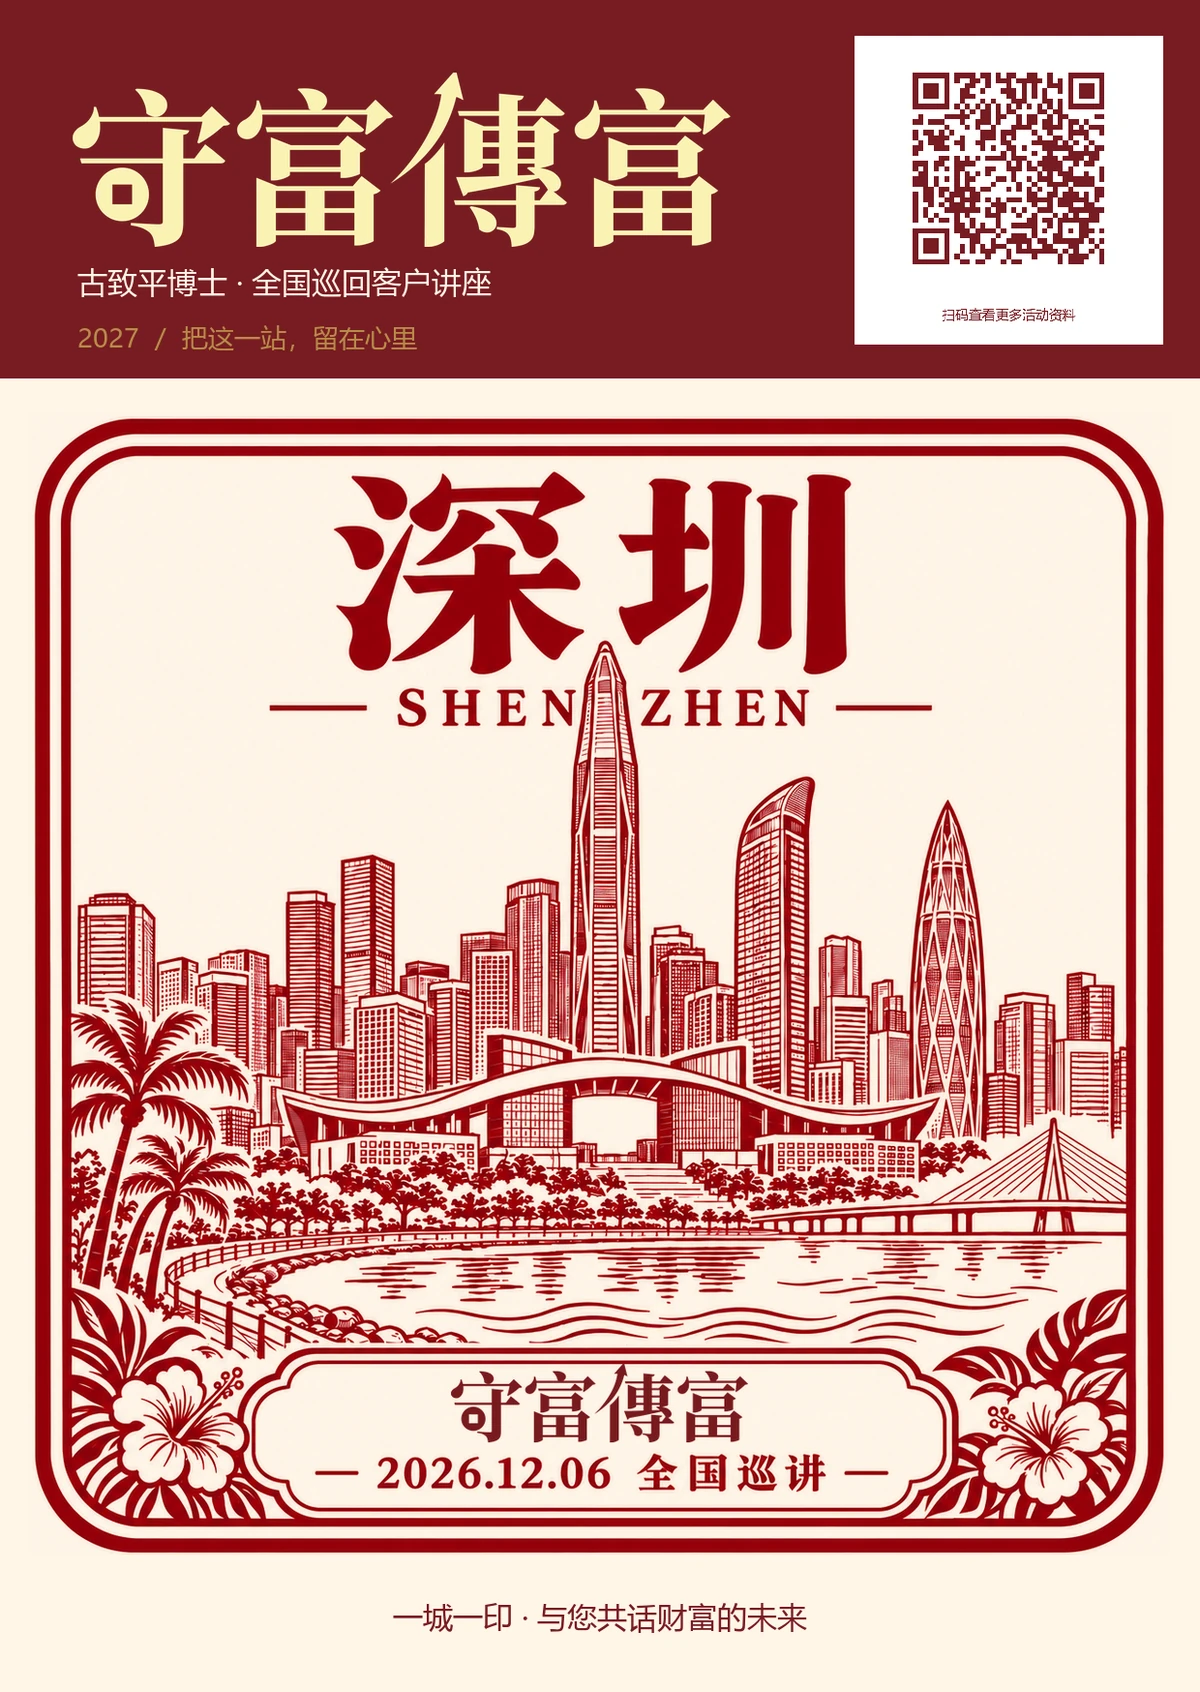
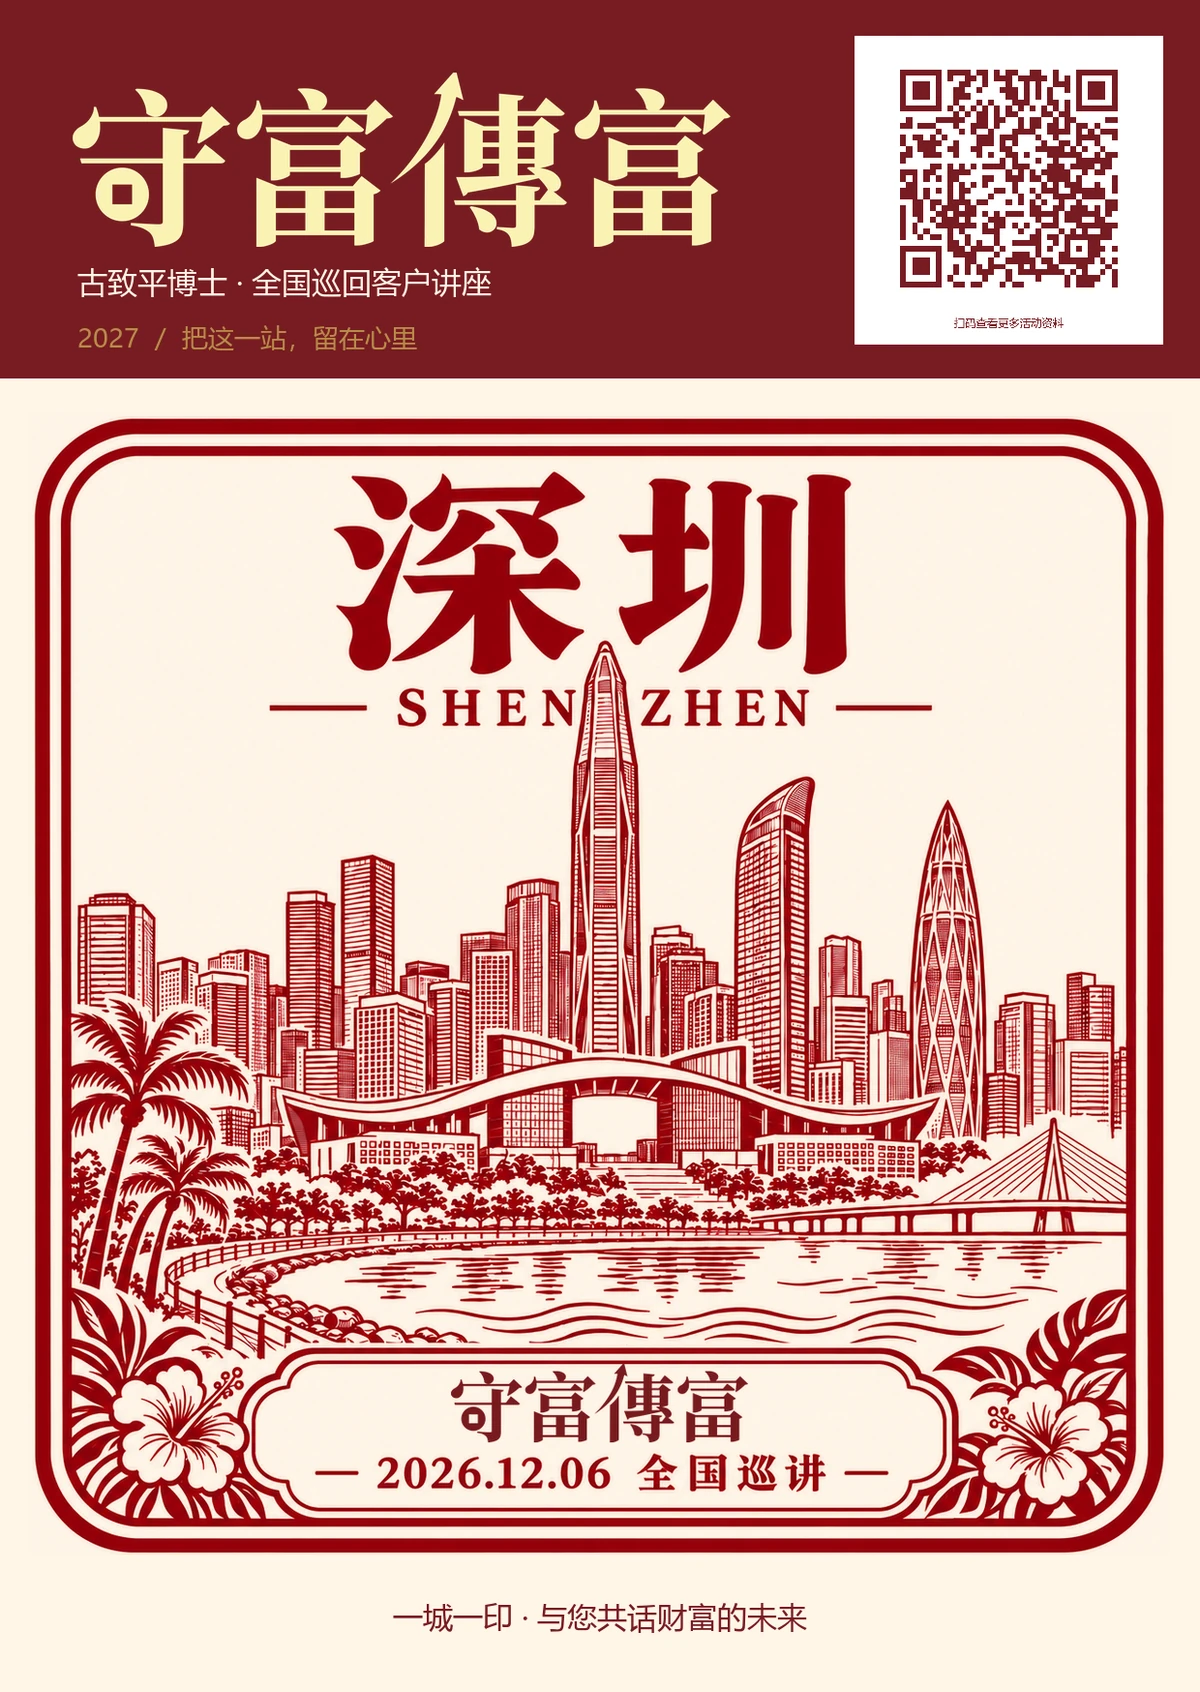
Refine poster typography, enlarge captioned QR, document stamp standards in Figma and CSS

Changed region(s): [[0.74, 0.0307, 0.9558, 0.2151]]

diff --git a/TEMP/shoufu-wenfang/index.html b/TEMP/shoufu-wenfang/index.html
@@ -1,1 +1,1 @@
-<!doctype html><html lang="zh-Hans"><head><meta charset="utf-8"><meta name="viewport" content="width=device-width,initial-scale=1"><title>守富文房｜卡片、纪念印与A3海报 DEMO</title><meta name="description" content="守富文房最新设计：双面纪念卡、城市线描印、古致平博士肖像印、邀请页二维码印与A3现场展示海报。"><style>*{box-sizing:border-box}body{margin:0;background:#f3ede4;color:#521b22;font-family:'Microsoft YaHei',sans-serif}header{background:#771c22;color:#fff5e7;padding:48px max(24px,calc((100vw - 1180px)/2))}header img{width:210px}h1{font-size:clamp(34px,6vw,62px);margin:22px 0 12px}header p{color:#e7c9ad;line-height:1.8;max-width:760px}nav{display:flex;gap:20px;flex-wrap:wrap}a{color:inherit}nav a{color:#eebf69}main{max-width:1180px;margin:auto;padding:24px}section{padding:20px 0 35px;border-bottom:1px solid #d6c5b0}h2{font-size:28px}.grid{display:grid;grid-template-columns:repeat(auto-fit,minmax(270px,1fr));gap:24px}figure{margin:0}figure img{width:100%;display:block;background:white;box-shadow:0 5px 18px #3a151514}figcaption{padding:14px 0;line-height:1.7}figcaption span{display:block;color:#806754;font-size:13px}.cards{display:grid;grid-template-columns:1fr 1fr;gap:24px}.poster{max-width:600px;margin:20px auto}.note{font-size:13px;line-height:1.9;color:#806754}.button{display:inline-block;background:#771c22;color:#fff5e7;text-decoration:none;padding:12px 22px;border-radius:6px;margin:12px 0}.poster img{width:100%}@media(max-width:600px){header{padding:30px 22px}main{padding:20px}.cards{grid-template-columns:1fr}.grid{grid-template-columns:1fr}}</style><link rel="canonical" href="https://brookstalent.github.io/DennisSo/TEMP/shoufu-wenfang/"><meta property="og:type" content="website"><meta property="og:title" content="守富文房｜卡片、纪念印与A3海报"><meta property="og:description" content="把这一站，盖进收藏。查看双面纪念卡、城市印、老师肖像印与A3现场海报。"><meta property="og:url" content="https://brookstalent.github.io/DennisSo/TEMP/shoufu-wenfang/"><meta property="og:locale" content="zh_CN"><meta property="og:image" content="https://brookstalent.github.io/DennisSo/TEMP/shoufu-wenfang/social.jpg"><meta property="og:image:type" content="image/jpeg"><meta property="og:image:width" content="800"><meta property="og:image:height" content="800"></head><body><header><img src="assets/official-logo-gold-transparent.webp?v=8" alt="守富传富"><h1>守富文房</h1><p>把这一站，盖进收藏。<br>双面纪念卡 × 城市线描印 × 三款老师肖像印 × 六印A3海报</p><nav><a href="#poster">A3海报</a><a href="#cards">双面卡片</a><a href="#cities">三、四月新城市</a><a href="#stamps">印章系列</a></nav></header><main><section id="poster"><h2>活动现场 · A3展示海报</h2><p>直式 297 × 420 mm，适合放入A3透明展示架。</p><a class="button" href="poster-preview.webp?v=8">查看 A3 海报设计</a><figure class="poster"><a href="poster-preview.webp?v=8"><img src="poster-preview.webp?v=8" alt="守富文房 A3 活动展示海报"></a></figure></section><section id="cards"><h2>双面卡片 · 蓋印效果</h2><div class="cards"><figure><img src="assets/demo-front.webp?v=8" alt="正面蓋印效果"><figcaption>正面 · 城市纪念印与QR印</figcaption></figure><figure><img src="assets/demo-back.webp?v=8" alt="背面蓋印效果"><figcaption>背面 · 5cm肖像印与下一场邀请</figcaption></figure></div><p class="note">卡片 105 × 148 mm。上图为蓋印示意；正面印刷稿右上留白，背面预印二维码，圆位留白供老师肖像印。</p><p><a href="assets/postcard-front.webp?v=8">下载正面未蓋印稿</a> · <a href="assets/postcard-back.webp?v=8">下载背面未蓋印稿</a></p></section><section id="cities"><h2>三、四月 · 四座新城市</h2><div class="grid"><figure><a href="assets/stamp-hangzhou.webp?v=8"><img src="assets/stamp-hangzhou.webp?v=8" loading="lazy" alt="杭州城市纪念印"></a><figcaption><b>杭州</b><span>2027.03.06 · 100 × 100 mm</span></figcaption></figure><figure><a href="assets/stamp-suzhou.webp?v=8"><img src="assets/stamp-suzhou.webp?v=8" loading="lazy" alt="苏州城市纪念印"></a><figcaption><b>苏州</b><span>2027.03.07 · 100 × 100 mm</span></figcaption></figure><figure><a href="assets/stamp-beijing.webp?v=8"><img src="assets/stamp-beijing.webp?v=8" loading="lazy" alt="北京城市纪念印"></a><figcaption><b>北京</b><span>2027.04.24 · 100 × 100 mm</span></figcaption></figure><figure><a href="assets/stamp-tianjin.webp?v=8"><img src="assets/stamp-tianjin.webp?v=8" loading="lazy" alt="天津城市纪念印"></a><figcaption><b>天津</b><span>2027.04.25 · 100 × 100 mm</span></figcaption></figure></div></section><section id="stamps"><h2>纪念印与QR原子印</h2><div class="grid"><figure><a href="assets/stamp-retirement.webp?v=8"><img src="assets/stamp-retirement.webp?v=8" loading="lazy" alt="把自己的养老安排好，是对孩子未来最大的祝福"><figcaption><b>把自己的养老安排好，是对孩子未来最大的祝福</b><span>新金句肖像印 · 直径 50 mm</span></figcaption></a></figure><figure><a href="assets/stamp-shenzhen.webp?v=8"><img src="assets/stamp-shenzhen.webp?v=8" loading="lazy" alt="深圳城市印"></a><figcaption><b>深圳城市印 · 2026.12.06</b><span>100 × 100 mm</span></figcaption></figure><figure><a href="assets/stamp-guangzhou.webp?v=8"><img src="assets/stamp-guangzhou.webp?v=8" loading="lazy" alt="广州城市印"></a><figcaption><b>广州城市印 · 2027.01.10</b><span>100 × 100 mm</span></figcaption></figure><figure><a href="assets/stamp-portrait.webp?v=8"><img src="assets/stamp-portrait.webp?v=8" loading="lazy" alt="守得住，传得下去"></a><figcaption><b>守得住，传得下去</b><span>肖像印 · 直径 50 mm</span></figcaption></figure><figure><a href="assets/stamp-professional.webp?v=8"><img src="assets/stamp-professional.webp?v=8" loading="lazy" alt="相信专业的力量"></a><figcaption><b>相信专业的力量</b><span>肖像印 · 直径 50 mm</span></figcaption></figure><figure><a href="assets/stamp-invitation-qr.webp?v=8"><img src="assets/stamp-invitation-qr.webp?v=8" loading="lazy" alt="邀请页 QR 原子印"></a><figcaption><b>邀请页 QR 原子印</b><span>连码与说明共 24 × 24 mm</span></figcaption></figure></div></section><p class="note">设计审阅 DEMO · 第八版 · 2026-11-14。A3海报展示四方印与两圆印；卡片与海报不再设置方形摆印外框。印章为正常阅读方向；制章时由厂家处理镜像与最小线宽。二维码已解码验证，原子印仍需实物试盖。</p></main></body></html>
+<!doctype html><html lang="zh-Hans"><head><meta charset="utf-8"><meta name="viewport" content="width=device-width,initial-scale=1"><title>守富文房｜卡片、纪念印与A3海报 DEMO</title><meta name="description" content="守富文房最新设计：双面纪念卡、城市线描印、古致平博士肖像印、邀请页二维码印与A3现场展示海报。"><style>*{box-sizing:border-box}body{margin:0;background:#f3ede4;color:#521b22;font-family:'Microsoft YaHei',sans-serif}header{background:#771c22;color:#fff5e7;padding:48px max(24px,calc((100vw - 1180px)/2))}header img{width:210px}h1{font-size:clamp(34px,6vw,62px);margin:22px 0 12px}header p{color:#e7c9ad;line-height:1.8;max-width:760px}nav{display:flex;gap:20px;flex-wrap:wrap}a{color:inherit}nav a{color:#eebf69}main{max-width:1180px;margin:auto;padding:24px}section{padding:20px 0 35px;border-bottom:1px solid #d6c5b0}h2{font-size:28px}.grid{display:grid;grid-template-columns:repeat(auto-fit,minmax(270px,1fr));gap:24px}figure{margin:0}figure img{width:100%;display:block;background:white;box-shadow:0 5px 18px #3a151514}figcaption{padding:14px 0;line-height:1.7}figcaption span{display:block;color:#806754;font-size:13px}.cards{display:grid;grid-template-columns:1fr 1fr;gap:24px}.poster{max-width:600px;margin:20px auto}.note{font-size:13px;line-height:1.9;color:#806754}.button{display:inline-block;background:#771c22;color:#fff5e7;text-decoration:none;padding:12px 22px;border-radius:6px;margin:12px 0}.poster img{width:100%}@media(max-width:600px){header{padding:30px 22px}main{padding:20px}.cards{grid-template-columns:1fr}.grid{grid-template-columns:1fr}}</style><link rel="canonical" href="https://brookstalent.github.io/DennisSo/TEMP/shoufu-wenfang/"><meta property="og:type" content="website"><meta property="og:title" content="守富文房｜卡片、纪念印与A3海报"><meta property="og:description" content="把这一站，盖进收藏。查看双面纪念卡、城市印、老师肖像印与A3现场海报。"><meta property="og:url" content="https://brookstalent.github.io/DennisSo/TEMP/shoufu-wenfang/"><meta property="og:locale" content="zh_CN"><meta property="og:image" content="https://brookstalent.github.io/DennisSo/TEMP/shoufu-wenfang/social.jpg"><meta property="og:image:type" content="image/jpeg"><meta property="og:image:width" content="800"><meta property="og:image:height" content="800"></head><body><header><img src="assets/official-logo-gold-transparent.webp?v=10" alt="守富传富"><h1>守富文房</h1><p>把这一站，盖进收藏。<br>双面纪念卡 × 城市线描印 × 三款老师肖像印 × 六印A3海报</p><nav><a href="#poster">A3海报</a><a href="#cards">双面卡片</a><a href="#cities">三、四月新城市</a><a href="#stamps">印章系列</a></nav></header><main><section id="poster"><h2>活动现场 · A3展示海报</h2><p>直式 297 × 420 mm，适合放入A3透明展示架。</p><a class="button" href="poster-preview.webp?v=10">查看 A3 海报设计</a><figure class="poster"><a href="poster-preview.webp?v=10"><img src="poster-preview.webp?v=10" alt="守富文房 A3 活动展示海报"></a></figure></section><section id="cards"><h2>双面卡片 · 蓋印效果</h2><div class="cards"><figure><img src="assets/demo-front.webp?v=10" alt="正面蓋印效果"><figcaption>正面 · 城市纪念印与QR印</figcaption></figure><figure><img src="assets/demo-back.webp?v=10" alt="背面蓋印效果"><figcaption>背面 · 5cm肖像印与下一场邀请</figcaption></figure></div><p class="note">卡片 105 × 148 mm。上图为蓋印示意；正面印刷稿右上留白，背面预印二维码，圆位留白供老师肖像印。</p><p><a href="assets/postcard-front.webp?v=10">下载正面未蓋印稿</a> · <a href="assets/postcard-back.webp?v=10">下载背面未蓋印稿</a></p></section><section id="cities"><h2>三、四月 · 四座新城市</h2><div class="grid"><figure><a href="assets/stamp-hangzhou.webp?v=10"><img src="assets/stamp-hangzhou.webp?v=10" loading="lazy" alt="杭州城市纪念印"></a><figcaption><b>杭州</b><span>2027.03.06 · 100 × 100 mm</span></figcaption></figure><figure><a href="assets/stamp-suzhou.webp?v=10"><img src="assets/stamp-suzhou.webp?v=10" loading="lazy" alt="苏州城市纪念印"></a><figcaption><b>苏州</b><span>2027.03.07 · 100 × 100 mm</span></figcaption></figure><figure><a href="assets/stamp-beijing.webp?v=10"><img src="assets/stamp-beijing.webp?v=10" loading="lazy" alt="北京城市纪念印"></a><figcaption><b>北京</b><span>2027.04.24 · 100 × 100 mm</span></figcaption></figure><figure><a href="assets/stamp-tianjin.webp?v=10"><img src="assets/stamp-tianjin.webp?v=10" loading="lazy" alt="天津城市纪念印"></a><figcaption><b>天津</b><span>2027.04.25 · 100 × 100 mm</span></figcaption></figure></div></section><section id="stamps"><h2>纪念印与QR原子印</h2><div class="grid"><figure><a href="assets/stamp-retirement.webp?v=10"><img src="assets/stamp-retirement.webp?v=10" loading="lazy" alt="把自己的养老安排好，是对孩子未来最大的祝福"><figcaption><b>把自己的养老安排好，是对孩子未来最大的祝福</b><span>新金句肖像印 · 直径 50 mm</span></figcaption></a></figure><figure><a href="assets/stamp-shenzhen.webp?v=10"><img src="assets/stamp-shenzhen.webp?v=10" loading="lazy" alt="深圳城市印"></a><figcaption><b>深圳城市印 · 2026.12.06</b><span>100 × 100 mm</span></figcaption></figure><figure><a href="assets/stamp-guangzhou.webp?v=10"><img src="assets/stamp-guangzhou.webp?v=10" loading="lazy" alt="广州城市印"></a><figcaption><b>广州城市印 · 2027.01.10</b><span>100 × 100 mm</span></figcaption></figure><figure><a href="assets/stamp-portrait.webp?v=10"><img src="assets/stamp-portrait.webp?v=10" loading="lazy" alt="守得住，传得下去"></a><figcaption><b>守得住，传得下去</b><span>肖像印 · 直径 50 mm</span></figcaption></figure><figure><a href="assets/stamp-professional.webp?v=10"><img src="assets/stamp-professional.webp?v=10" loading="lazy" alt="相信专业的力量"></a><figcaption><b>相信专业的力量</b><span>肖像印 · 直径 50 mm</span></figcaption></figure><figure><a href="assets/stamp-invitation-qr.webp?v=10"><img src="assets/stamp-invitation-qr.webp?v=10" loading="lazy" alt="邀请页 QR 原子印"></a><figcaption><b>邀请页 QR 原子印</b><span>连码与说明约 24 × 25 mm</span></figcaption></figure></div></section><p class="note">设计审阅 DEMO · 第十版 · 2026-11-14。A3海报展示四方印与两圆印；卡片与海报不再设置方形摆印外框。印章为正常阅读方向；制章时由厂家处理镜像与最小线宽。二维码已解码验证，原子印仍需实物试盖。</p><p><a href="stamp-standard.css">原子印标准 CSS</a> · <a href="https://www.figma.com/design/7HZzC4RoGzVXSyFN4GrBhc?node-id=2-5">Figma：苏州、北京标准样本</a></p></main></body></html>

diff --git a/TEMP/shoufu-wenfang/stamp-standard.css b/TEMP/shoufu-wenfang/stamp-standard.css
@@ -1,0 +1,46 @@
+/* 守富文房 原子印標準 v1 — 蘇州、北京為核准參考圖。
+   CSS 定義版位與輸出尺寸；城市插畫及客製字形以原 PNG 為準，非可編輯字型。
+   Figma: https://www.figma.com/design/7HZzC4RoGzVXSyFN4GrBhc
+   100mm = 377.952756 CSS px @96dpi。不得以螢幕像素推算製章尺寸。
+   邊框線寬為設計目標，製章廠須試刻確認。 */
+:root {
+  --stamp-ink: #771c22;
+  --stamp-paper: #fff5e7;
+  --stamp-size: 100mm;
+  --stamp-portrait-size: 50mm;
+  --stamp-frame-inset: 1mm;
+  --stamp-frame-outer: .8mm;
+  --stamp-frame-inner: .35mm;
+  --stamp-frame-radius: 9mm;
+  --stamp-title-top: 5.5%;
+  --stamp-title-height: 19%;
+  --stamp-english-top: 24%;
+  --stamp-art-top: 29%;
+  --stamp-art-bottom: 80%;
+  --stamp-footer-top: 80%;
+  --stamp-logo-top: 81.5%;
+  --stamp-logo-left: 35%;
+  --stamp-logo-width: 30%;
+  --stamp-date-top: 92.5%;
+  --stamp-date-font: 3mm;
+  --stamp-rule-width: 5mm;
+  --stamp-rule-weight: .35mm;
+  --stamp-qr-width: 24mm;
+  --stamp-qr-height: 25mm;
+  --stamp-qr-caption: .96mm;
+  --stamp-font: 'SimSun', 'Noto Serif CJK SC', serif;
+}
+.stamp { position: relative; width: var(--stamp-size); height: var(--stamp-size); color: var(--stamp-ink); }
+.stamp__source { display: block; width: 100%; height: 100%; object-fit: contain; }
+.stamp__logo { position: absolute; top: var(--stamp-logo-top); left: var(--stamp-logo-left); width: var(--stamp-logo-width); height: auto; }
+.stamp__date { position: absolute; top: var(--stamp-date-top); left: 50%; transform: translateX(-50%); white-space: nowrap; font: var(--stamp-date-font)/1 var(--stamp-font); }
+.stamp--suzhou { --stamp-date: '2027.03.07'; }
+.stamp--beijing { --stamp-date: '2027.04.24'; }
+.stamp--portrait { width: var(--stamp-portrait-size); height: var(--stamp-portrait-size); border-radius: 50%; }
+.stamp--qr { width: var(--stamp-qr-width); height: var(--stamp-qr-height); background: white; }
+.stamp--qr img { width: 100%; height: 100%; object-fit: contain; image-rendering: pixelated; }
+/* QR: 留足四個空白模組；不得用 logo 遮碼、平滑縮放或鏡像輸出測試圖。
+   正常閱讀方向供核對；製章廠於製版時鏡像。以實物印章再次掃碼驗收。
+   Source PNG: 1254 × 1254 px for 100mm (~318.5dpi).
+   標準版 logo 底框以蘇州、北京原圖輪廓為準；勿用普通矩形替代裝飾框。 */
+@media print { .stamp { break-inside: avoid; print-color-adjust: exact; -webkit-print-color-adjust: exact; } }
